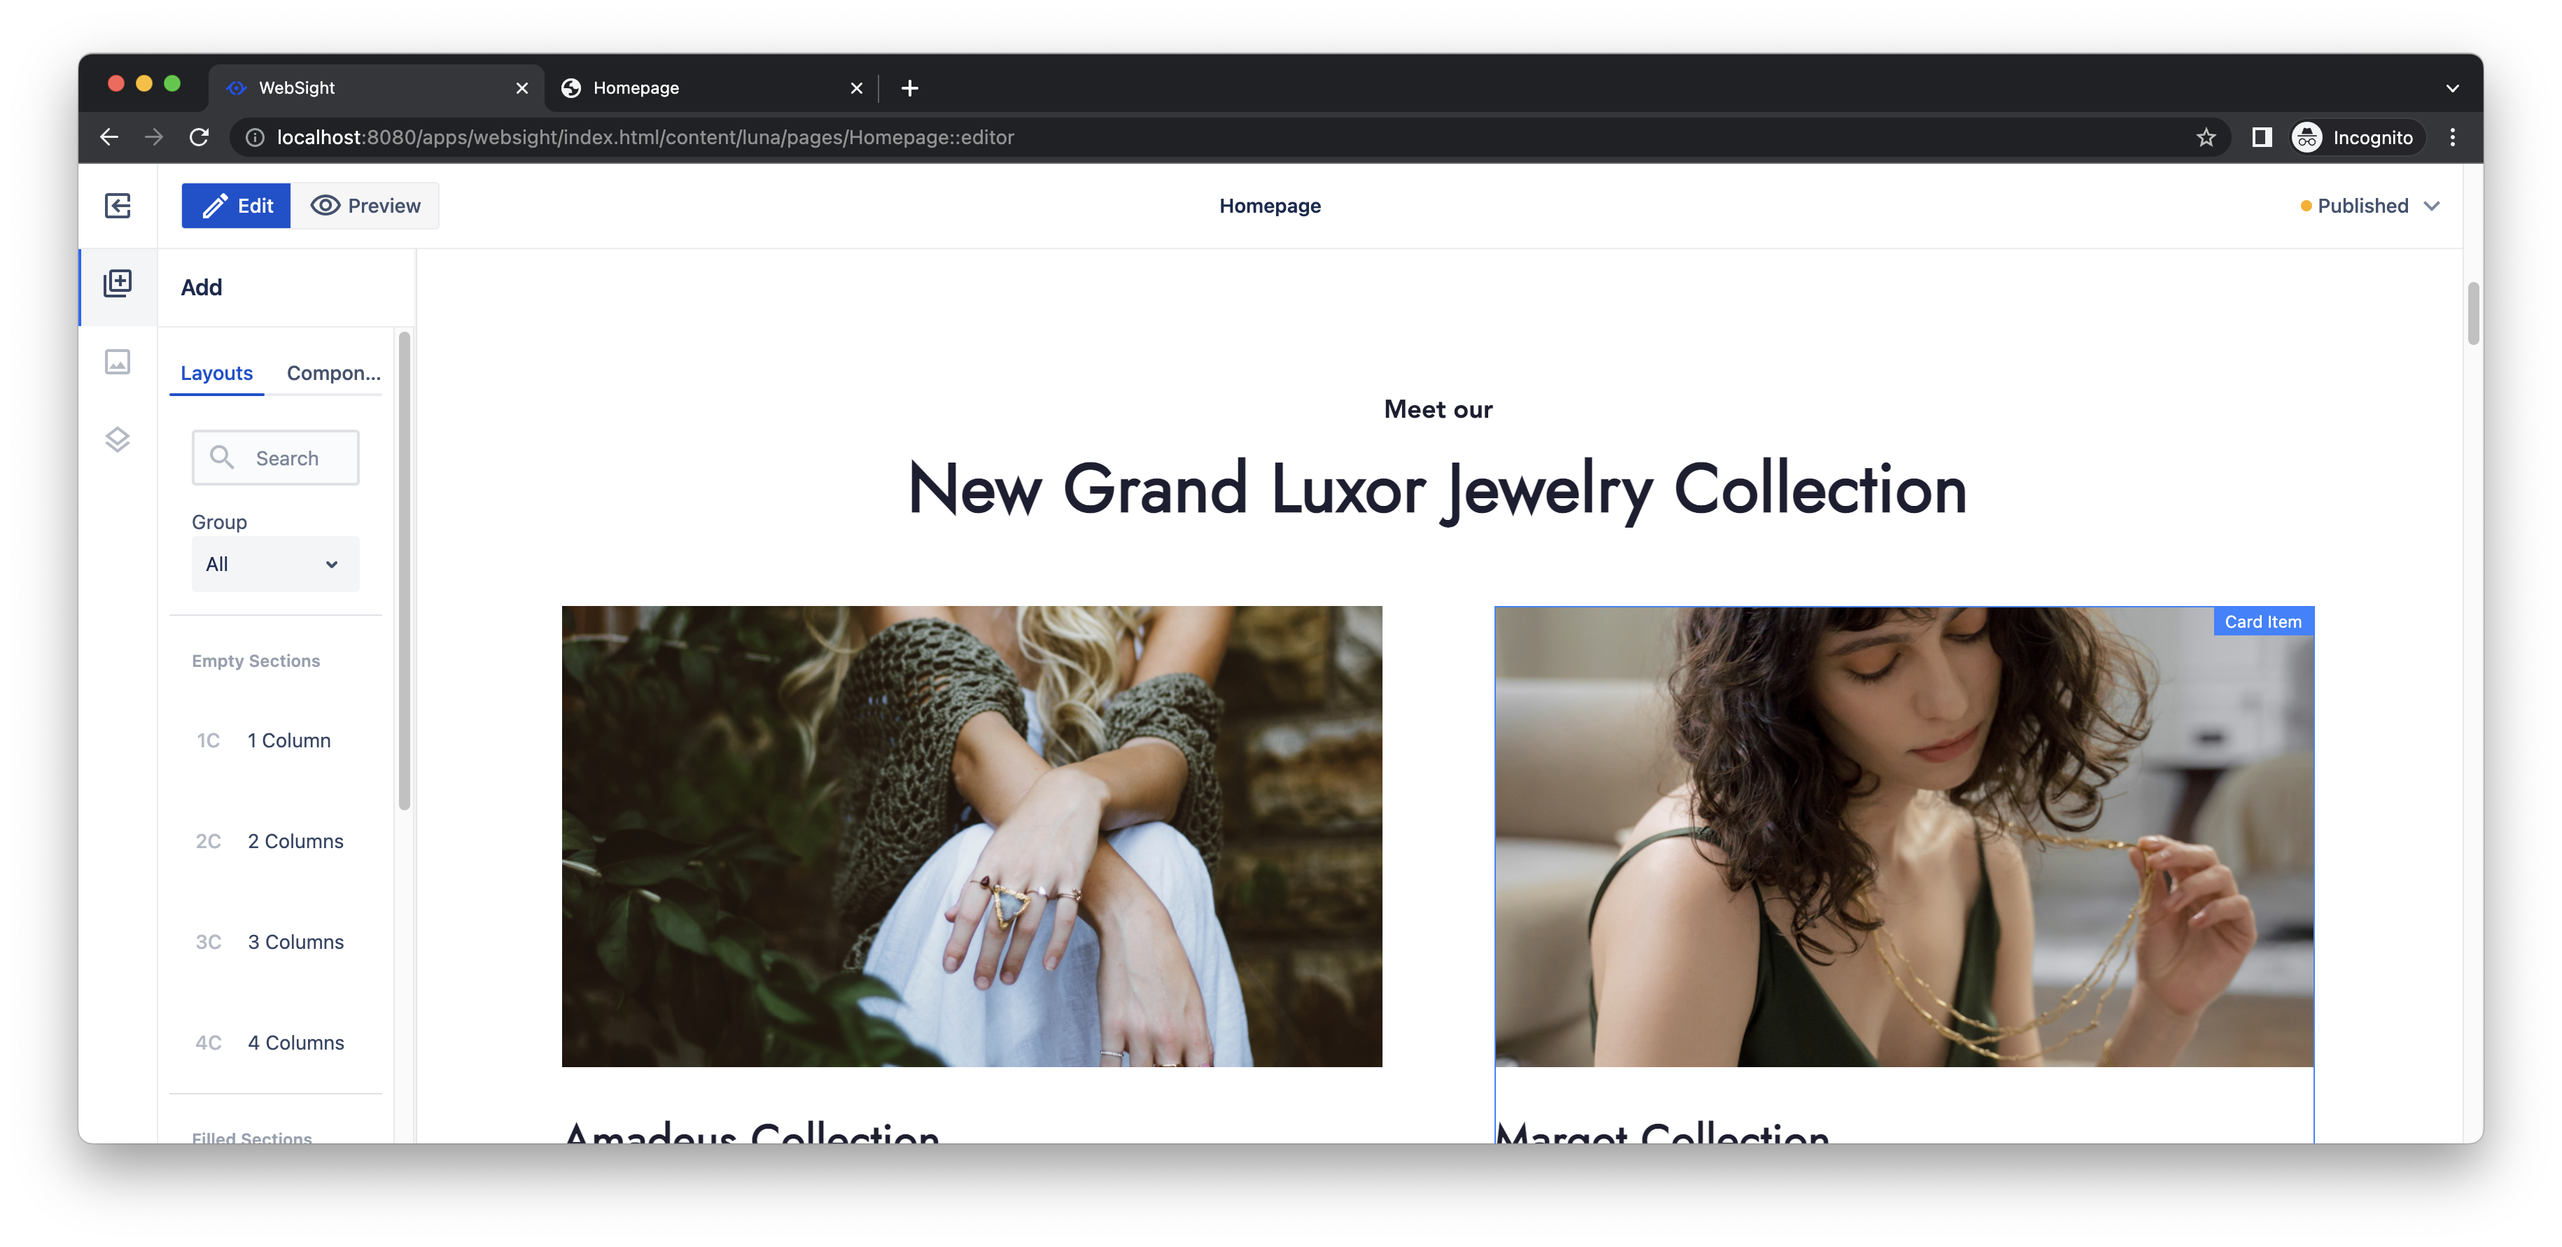
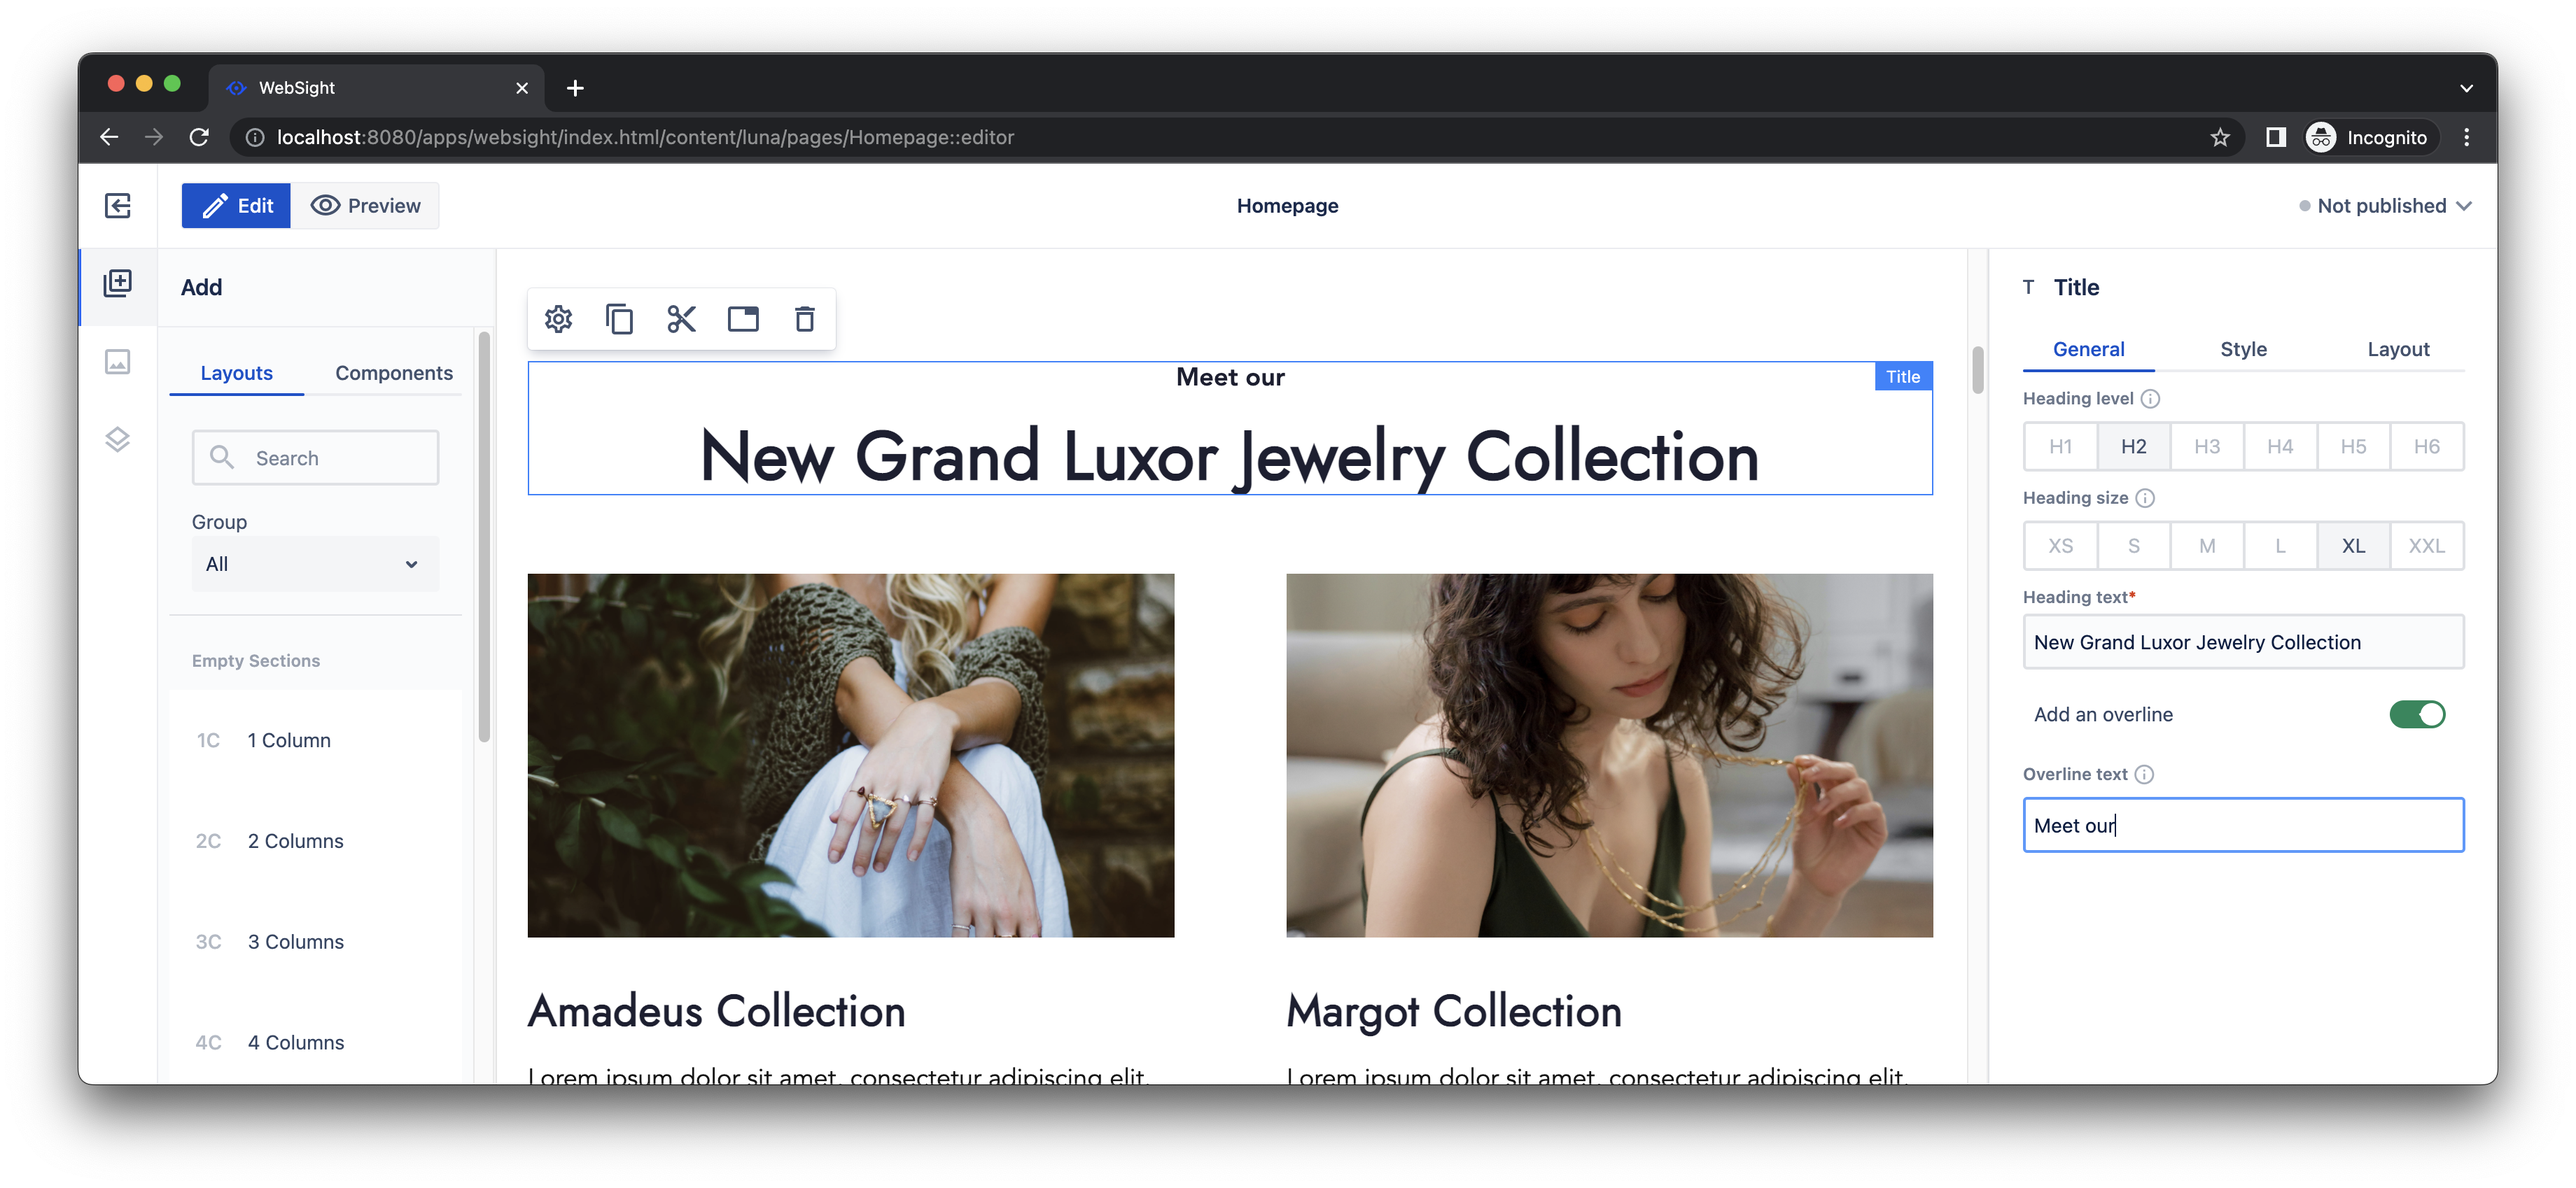
Side panel documentation (#153)

diff --git a/docs/docs/developers/development/page-editor/side-panel/index.md b/docs/docs/developers/development/page-editor/side-panel/index.md
@@ -1,0 +1,140 @@
+# Side Panel
+
+## Overview
+
+The _Side Panel_ is a part of the _Page editor_ and allows editing the properties of the selected component.
+It is displayed on the right side of the _Page editor_. Its purpose is slightly different from the full-blown modal.
+The _Side Panel_ is more suitable for quick edits to be previewed right away on the page content, such as changing
+a font size, button variant, or card style, unlike the _modal_ where the focus is on editing the complete configuration
+of the component at once.
+
+## Configuration
+
+By default, the component's dialog configuration will be used for both the side panel and the dialog.
+It means that all components support the side panel right away. Since their purposes are different,
+it is possible to differentiate between the fields & layout for the regular modal and the side panel.
+The configuration allows developers to decide field-by-field if it should appear in both
+or only in one of the two contexts.
+
+The mechanism used to achieve that is the `ws:disallowedContext` parameter (see more details about the mechanism [here](../../../development/dialogs/#context)).
+The two contexts that can be disabled are `edit:dialog` and `edit:panel`.
+
+### Example 1
+In this example, we're showcasing how to hide a `select` on the dialog and a `toggle` on the side panel.
+
+```json
+{
+  "sling:resourceType": "wcm/dialogs/dialog",
+  "title": {
+    "sling:resourceType": "wcm/dialogs/components/textfield",
+    "name": "title",
+    "label": "Title"
+  },
+  "shadows": {
+    "sling:resourceType": "wcm/dialogs/components/toggle",
+    "name": "shadows",
+    "label": "Use shadows",
+    "ws:disallowedContext": ["edit:panel"]
+  },
+  "style": {
+    "sling:resourceType": "wcm/dialogs/components/select",
+    "label": "Style",
+    "name": "style",
+    "ws:disallowedContext": ["edit:dialog"],
+    "primary": {
+      "sling:resourceType": "wcm/dialogs/components/select/selectitem",
+      "label": "Primary",
+      "value": "primary"
+    },
+    "secondary": {
+      "sling:resourceType": "wcm/dialogs/components/select/selectitem",
+      "label": "Secondary",
+      "selected": true,
+      "value": "secondary"
+    }
+  }
+}
+```
+
+#### Result
+![Modal without the style field that's disallowed in this context](./images/side-panel-diff-modal.png)
+![Side panel without the shadow field that's disallowed in this context](./images/side-panel-diff-panel.png)
+
+### Example 2
+In this example, we're defining a completely separate layout and order for the two ways of editing to achieve an even better authoring experience. 
+
+To accomplish this, we create a configuration of three tabs. The first two will only appear on the modal,
+while the third one will only appear on the side panel. The third tab includes all three fields that are available
+on the other two tabs. It allows the author to edit all the properties in the side panel in one tab
+but defines separation for the fields on the modal.
+
+```json
+{
+  "sling:resourceType": "wcm/dialogs/dialog",
+  "tabs": {
+    "sling:resourceType": "wcm/dialogs/components/tabs",
+    "properties": {
+      "sling:resourceType": "wcm/dialogs/components/tab",
+      "label": "Properties",
+      "ws:disallowedContext": ["edit:panel"],
+      "headingLevel": {
+        "sling:resourceType": "wcm/dialogs/components/include",
+        "path": "/libs/howlite/components/common/headinglevel"
+      },
+      "headingSize": {
+        "sling:resourceType": "wcm/dialogs/components/include",
+        "path": "/libs/howlite/components/common/headingsize"
+      }
+    },
+    "styles": {
+      "sling:resourceType": "wcm/dialogs/components/tab",
+      "label": "Styles",
+      "ws:disallowedContext": ["edit:panel"],
+      "styleVariant": {
+        "sling:resourceType": "wcm/dialogs/components/include",
+        "path": "/libs/howlite/components/common/stylevariant"
+      }
+    },
+    "sidepanel": {
+      "sling:resourceType": "wcm/dialogs/components/tab",
+      "label": "Properties",
+      "ws:disallowedContext": ["edit:dialog"],
+      "headingLevel": {
+        "sling:resourceType": "wcm/dialogs/components/include",
+        "path": "/libs/howlite/components/common/headinglevel"
+      },
+      "headingSize": {
+        "sling:resourceType": "wcm/dialogs/components/include",
+        "path": "/libs/howlite/components/common/headingsize"
+      },
+      "styleVariant": {
+        "sling:resourceType": "wcm/dialogs/components/include",
+        "path": "/libs/howlite/components/common/stylevariant"
+      }
+    }
+  }
+}
+```
+
+#### Result
+![First tab of modal with different layout based on context](./images/side-panel-layout-modal-1.png)
+![Second tab of modal with different layout based on context](./images/side-panel-layout-modal-2.png)
+![Side panel with different layout based on context](./images/side-panel-layout-panel.png)
+
+## Saving and error handling
+
+The saving of the fields works automatically. There is no need to press a submit button. Some field values are changed with a mouse click,
+for example, the toggle. The side panel saves them immediately, and the results are visible almost instantly. Other fields, for example,
+the text field or the path picker, require typing a new value. It is stored when an author stops typing (debounce manner).
+The approach reduces the number of content updates that would cause page flickering.
+
+No matter if errors happen during the regular editing experience (e.g. validations) or are caused by technical problems,
+they need to be handled. In case of any errors during saving, the side panel resets the modified field to the
+latest stable state (either the initial one or the last successfully saved one). This is to ensure that
+the author always sees valid and up-to-date information on the side panel.
+
+## Validations
+
+Since the purpose of the side panel is to provide a lightweight solution for simple editing, it has some limitations compared to the regular modal.
+Fields that are validated are not recommended to be displayed and edited on the side panel.
+Editing such fields with a value that breaks a validation rule will result in an error message and the field will be reset (as described above).

diff --git a/docs/docs/developers/quick-start/index.md b/docs/docs/developers/quick-start/index.md
@@ -55,11 +55,11 @@ To fulfill this request, you are asked to keep the collection name on one line a
 
 To do this, you need to extend the _Title_ component included in the [Howlite](https://github.com/websight-io/howlite) library. Before doing that, let's check the orginal component first to identify the scope of changes.
 
-Run WebSight, open the _Luna_ space and edit the home page. Find the _Title_ component that contains the text `Meet our New Grand Luxor Jewelry Collection` and edit its properties.
+Run WebSight, open the _Luna_ space and edit the home page. Find the _Title_ component that contains the text `Meet our New Grand Luxor Jewelry Collection` and edit its properties on the sidepanel.
 
-![Title dialog properties](title-dialog-properties.png)
+![Title panel properties](title-panel-properties.png)
 
-Enable the `Overline text` option, move `Meet our` from `Heading text` to `Overline text` and submit changes.
+Enable the `Overline text` option, move `Meet our` from `Heading text` to `Overline text`.
 
 ![Updated title](title-updated.png)
 
@@ -291,17 +291,18 @@ Then, find the _Luna Title_ in the component tree on the left. Drag and drop the
 ![Luna Title added](luna-title-component.png)
 
 
-Edit properties of the _Luna Title_:
+Edit properties of the _Luna Title_ on the side panel:
 
+1. set _Heading level_ to `H2` 
 1. set _Heading size_ to `XL`
 1. set _Heading text_ to `New Grand Luxor Jewelry Collection`
 1. enable overline text
 1. set _Overline size_ to `L`
 1. set _Overline text_ to `Meet our` 
 
-![Luna Title Dialog Properites](luna-title-dialog-properties.png)
+![Luna Title Panel Properites](luna-title-panel-properties.png)
 
-Submit changes. The title should appear as expected now. You can delete the original _Title_ component to finalize the change.
+The title should appear as expected now. You can delete the original _Title_ component to finalize the change.
 
 ![Updated Luna Title](luna-title-updated.png)
 

diff --git a/docs/docs/quick-start/index.md b/docs/docs/quick-start/index.md
@@ -114,17 +114,17 @@ Find the _Rich text editor_ on the tab _Components_ and use the drag-and-drop fe
 
 ![Rich text editor available in component tree](./quick-start-RTE-component.png)
 
-Click on the new component to open available actions. Select the _Gear_ icon to edit properties.
+Click on the new component to check its properties on the side panel on the right.
 
-![Actions available for RTE component](./quick-start-RTE-editing.png)
+![Actions available for RTE component](./quick-start-RTE-panel.png)
 
-Copy & paste the following text on the _General_ tab.
+Copy & paste the following text into the _Text_ field on the _General_ tab.
 
 ```
 Every couple is unique and we want to deliver an engagement ring that is unique too – taking the tastes of the couple into account. We love having couples visit the store and work with them to create a unique custom engagement ring according to their tastes.
 ```
 
-![RTE component properties](./quick-start-RTE-properties.png)
+![RTE component properties](./quick-start-RTE-panel-updated.png)
 
 ### 4. Publish changes
 

diff --git a/docs/docs/developers/development/dialogs/date-picker/index.md b/docs/docs/developers/development/dialogs/date-picker/index.md
@@ -34,9 +34,11 @@ The Date Picker dialog field allows the user to pick a date, time or datetime.
 
 - **after** - `string`  
     Comma separated values of other datepickers. These datepickers' values should be lower than the selected date.
+    (This validation should be used in pair with `before` on the reference field.)
 
 - **before** - `string`  
     Comma separated values of other datepickers. These datepickers' values should be higher the selected date.
+    (This validation should be used in pair with `after` on the reference field.)
 
 ## Example
 

diff --git a/docs/docs/developers/development/dialogs/index.md b/docs/docs/developers/development/dialogs/index.md
@@ -4,6 +4,12 @@ The Dialogs framework in WebSight CMS allows users to define dialog field compon
 
 WebSight CMS delivers a set of ready-to-use components. These are detailed in the subsections of this documentation page.
 
+!!! info "Rendering dialogs"
+
+    In this documentation, we present dialogs configurations in a modal, which is the default dialog rendering.
+    However, dialogs can be rendered in other ways, for example as a [side panel](../page-editor/side-panel). 
+
+
 ## Dialog structure
 Each dialog can be build out of two element types:
 
